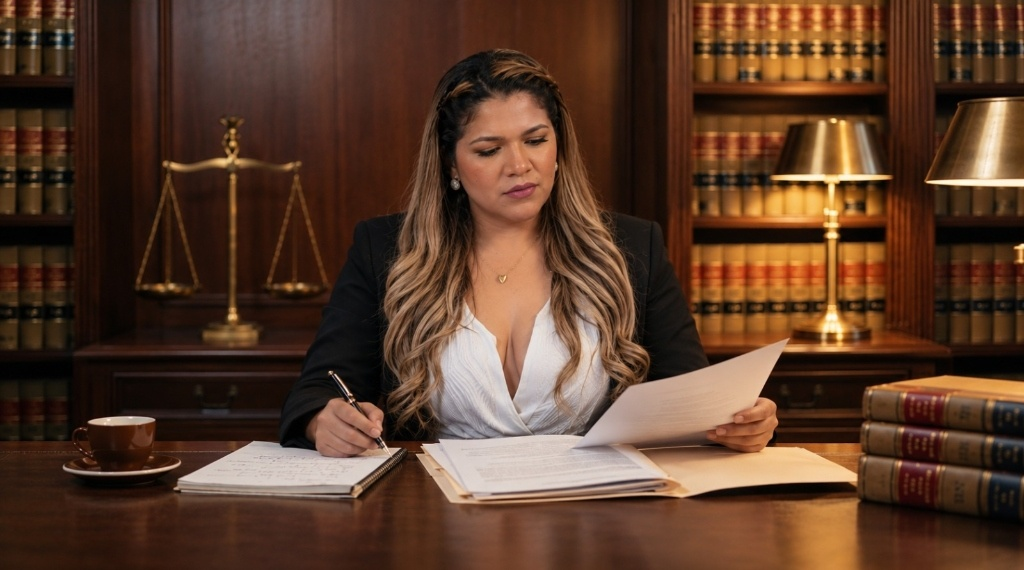
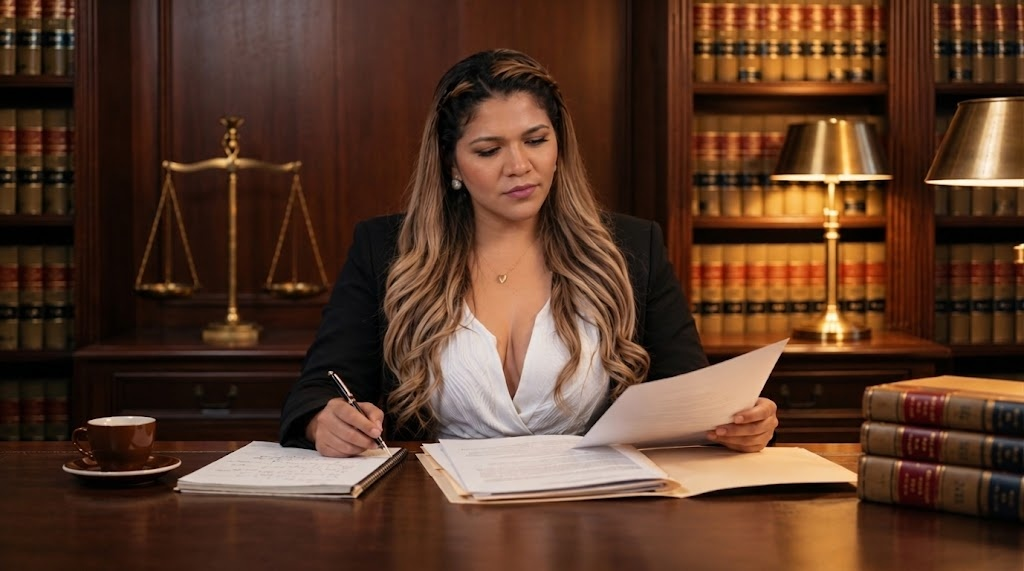
feat: actualizar nuevas fotos de portada, despacho y biblioteca con extension al borde de pantalla

diff --git a/src/pages/HomeTab.tsx b/src/pages/HomeTab.tsx
@@ -444,173 +444,165 @@ export const HomeTab: React.FC<HomeTabProps> = ({ onSelectTab, onOpenEmergencyMo
       </section>
 
       {/* =========================================================================
-          SECCIÓN 3: SOBRE MÍ (2 COLUMNAS: IMAGEN COMPLETA Y TEXTO ESTRUCTURADO)
+          SECCIÓN 3: SOBRE MÍ (2 COLUMNAS: IMAGEN AL BORDE IZQUIERDO Y TEXTO ESTRUCTURADO)
           ========================================================================= */}
-      <section className="w-full bg-[#FAF7F2] py-10 sm:py-14 lg:py-18 overflow-hidden animate-fade-in">
-        <div className="max-w-[1550px] mx-auto px-4 sm:px-8 lg:px-12 xl:px-16">
-          <div className="grid grid-cols-1 lg:grid-cols-2 gap-8 lg:gap-14 items-center">
+      <section className="w-full bg-[#FAF7F2] pt-6 sm:pt-10 lg:pt-12 pb-0 overflow-hidden animate-fade-in">
+        <div className="w-full grid grid-cols-1 lg:grid-cols-2 items-stretch">
+          
+          {/* Columna Izquierda: Imagen a ras del margen izquierdo y a ras del fondo de sección */}
+          <div className="relative w-full h-[300px] sm:h-[400px] lg:h-full min-h-[300px] sm:min-h-[400px] lg:min-h-[480px] overflow-hidden">
+            <img
+              src={sofiaDeskLandscape}
+              alt="Ab. Sofía Segura Santana en su despacho"
+              className="absolute inset-0 w-full h-full object-cover object-top rounded-none shadow-none transform hover:scale-[1.01] transition-transform duration-500"
+            />
+          </div>
+
+          {/* Columna Derecha: Texto estructurado que define la altura vertical exacta */}
+          <div className="w-full px-5 sm:px-10 lg:px-12 xl:px-20 py-8 sm:py-10 lg:py-12 flex flex-col justify-center items-start text-left">
             
-            {/* Columna Izquierda: Fotografía Completa en Despacho (tamaño calibrado sin recortar la frente) */}
-            <div className="w-full flex items-center justify-center">
-              <div className="relative w-full max-w-[560px] rounded-2xl sm:rounded-3xl overflow-hidden shadow-2xl border-2 border-[#c5a059]/40 bg-[#101626] group">
-                <img
-                  src={sofiaDeskLandscape}
-                  alt="Ab. Sofía Segura Santana en su despacho"
-                  className="w-full h-auto block object-cover object-top transform group-hover:scale-[1.01] transition-transform duration-500"
-                />
+            <div className="text-xs font-bold tracking-widest text-[#aa8640] uppercase mb-2">
+              SOBRE MÍ
+            </div>
+            
+            <h2 className="font-['Cinzel',serif] text-2xl sm:text-3xl md:text-4xl lg:text-[40px] font-bold text-[#1c2237] leading-tight mb-3">
+              Ab. Sofía Segura Santana
+            </h2>
+
+            <p className="text-xs sm:text-sm text-slate-600 leading-relaxed mb-5 font-normal max-w-xl">
+              Ejerzo el patrocinio jurídico penal fundamentado en la ética procesal, el rigor dogmático y el respeto irrestricto de las garantías constitucionales. Mi compromiso es brindar una defensa técnica responsable, inmediata y frontal, apegada al Código Orgánico Integral Penal y los tratados de derechos humanos.
+            </p>
+
+            {/* 3 Viñetas con Iconos elegantes */}
+            <div className="space-y-3 mb-6 w-full max-w-xl">
+              <div className="flex items-center gap-3 text-xs sm:text-sm text-slate-700 font-medium">
+                <div className="w-7 h-7 rounded-full bg-[#c5a059]/15 flex items-center justify-center text-[#c5a059] flex-shrink-0">
+                  <Scale className="w-3.5 h-3.5" />
+                </div>
+                <span>Experta en Derecho Penal y Tránsito con más de 5 años de experiencia</span>
+              </div>
+
+              <div className="flex items-center gap-3 text-xs sm:text-sm text-slate-700 font-medium">
+                <div className="w-7 h-7 rounded-full bg-[#c5a059]/15 flex items-center justify-center text-[#c5a059] flex-shrink-0">
+                  <GraduationCap className="w-3.5 h-3.5" />
+                </div>
+                <span>Maestrías en Derecho Procesal Penal & Constitucional (Casa Grande) · Grado en Uniandes</span>
+              </div>
+
+              <div className="flex items-center gap-3 text-xs sm:text-sm text-slate-700 font-medium">
+                <div className="w-7 h-7 rounded-full bg-[#c5a059]/15 flex items-center justify-center text-[#c5a059] flex-shrink-0">
+                  <ShieldCheck className="w-3.5 h-3.5" />
+                </div>
+                <span>Atención en Buena Fe (Los Ríos) y cobertura a nivel nacional</span>
               </div>
             </div>
 
-            {/* Columna Derecha: Texto estructurado que define la altura vertical exacta */}
-            <div className="w-full flex flex-col justify-center items-start text-left">
-              
-              <div className="text-xs font-bold tracking-widest text-[#aa8640] uppercase mb-2">
-                SOBRE MÍ
-              </div>
-              
-              <h2 className="font-['Cinzel',serif] text-2xl sm:text-3xl md:text-4xl lg:text-[40px] font-bold text-[#1c2237] leading-tight mb-3">
-                Ab. Sofía Segura Santana
-              </h2>
-
-              <p className="text-xs sm:text-sm text-slate-600 leading-relaxed mb-5 font-normal max-w-xl">
-                Ejerzo el patrocinio jurídico penal fundamentado en la ética procesal, el rigor dogmático y el respeto irrestricto de las garantías constitucionales. Mi compromiso es brindar una defensa técnica responsable, inmediata y frontal, apegada al Código Orgánico Integral Penal y los tratados de derechos humanos.
-              </p>
-
-              {/* 3 Viñetas con Iconos elegantes */}
-              <div className="space-y-3 mb-6 w-full max-w-xl">
-                <div className="flex items-center gap-3 text-xs sm:text-sm text-slate-700 font-medium">
-                  <div className="w-7 h-7 rounded-full bg-[#c5a059]/15 flex items-center justify-center text-[#c5a059] flex-shrink-0">
-                    <Scale className="w-3.5 h-3.5" />
-                  </div>
-                  <span>Experta en Derecho Penal y Tránsito con más de 5 años de experiencia</span>
-                </div>
-
-                <div className="flex items-center gap-3 text-xs sm:text-sm text-slate-700 font-medium">
-                  <div className="w-7 h-7 rounded-full bg-[#c5a059]/15 flex items-center justify-center text-[#c5a059] flex-shrink-0">
-                    <GraduationCap className="w-3.5 h-3.5" />
-                  </div>
-                  <span>Maestrías en Derecho Procesal Penal & Constitucional (Casa Grande) · Grado en Uniandes</span>
-                </div>
-
-                <div className="flex items-center gap-3 text-xs sm:text-sm text-slate-700 font-medium">
-                  <div className="w-7 h-7 rounded-full bg-[#c5a059]/15 flex items-center justify-center text-[#c5a059] flex-shrink-0">
-                    <ShieldCheck className="w-3.5 h-3.5" />
-                  </div>
-                  <span>Atención en Buena Fe (Los Ríos) y cobertura a nivel nacional</span>
-                </div>
-              </div>
-
-              {/* Botón Píldora: Conocer Más */}
-              <button
-                onClick={() => onSelectTab('perfil')}
-                className="px-6 sm:px-7 py-2.5 sm:py-3 rounded-full bg-[#1c2237] hover:bg-[#c5a059] text-white font-bold text-xs uppercase tracking-wider transition-all shadow-md transform hover:-translate-y-0.5 active:translate-y-0"
-              >
-                Conocer Más Sobre Mí
-              </button>
-
-            </div>
+            {/* Botón Píldora: Conocer Más */}
+            <button
+              onClick={() => onSelectTab('perfil')}
+              className="px-6 sm:px-7 py-2.5 sm:py-3 rounded-full bg-[#1c2237] hover:bg-[#c5a059] text-white font-bold text-xs uppercase tracking-wider transition-all shadow-md transform hover:-translate-y-0.5 active:translate-y-0"
+            >
+              Conocer Más Sobre Mí
+            </button>
 
           </div>
+
         </div>
       </section>
 
       {/* =========================================================================
-          SECCIÓN 4: METODOLOGÍA PROCESAL (2 COLUMNAS: TEXTO E IMAGEN COMPLETA)
+          SECCIÓN 4: METODOLOGÍA PROCESAL (2 COLUMNAS: TEXTO E IMAGEN AL BORDE DERECHO)
           ========================================================================= */}
-      <section className="w-full bg-white py-10 sm:py-14 lg:py-18 overflow-hidden animate-fade-in">
-        <div className="max-w-[1550px] mx-auto px-4 sm:px-8 lg:px-12 xl:px-16">
-          <div className="grid grid-cols-1 lg:grid-cols-2 gap-8 lg:gap-14 items-center">
+      <section className="w-full bg-white pt-0 pb-8 sm:pb-10 lg:pb-12 overflow-hidden animate-fade-in">
+        <div className="w-full grid grid-cols-1 lg:grid-cols-2 items-stretch">
+          
+          {/* Columna Izquierda: Metodología con línea de tiempo y texto que define la altura vertical exacta */}
+          <div className="w-full px-5 sm:px-10 lg:px-12 xl:px-20 py-8 sm:py-10 lg:py-12 flex flex-col justify-center items-start text-left order-2 lg:order-1">
             
-            {/* Columna Izquierda: Metodología con línea de tiempo y texto */}
-            <div className="w-full flex flex-col justify-center items-start text-left order-2 lg:order-1">
-              
-              <div className="text-xs font-bold tracking-widest text-[#aa8640] uppercase mb-2">
-                METODOLOGÍA DE DEFENSA PENAL
-              </div>
-              
-              <h2 className="font-['Cinzel',serif] text-2xl sm:text-3xl md:text-4xl lg:text-[40px] font-bold text-[#1c2237] leading-tight mb-6">
-                Un Proceso Estratégico, Paso a Paso
-              </h2>
-
-              {/* Pasos ordenados con iconos temáticos al lado izquierdo de cada párrafo */}
-              <div className="grid grid-cols-1 sm:grid-cols-2 gap-4 sm:gap-6 w-full max-w-xl">
-                
-                {/* Paso 1: Evaluación Inicial */}
-                <div className="flex flex-col items-start text-left">
-                  <h3 className="font-bold text-xs sm:text-sm text-[#1c2237] mb-1.5 sm:mb-2 font-['Cinzel',serif]">
-                    Evaluación Inicial
-                  </h3>
-                  <div className="flex items-center gap-3 w-full">
-                    <div className="w-11 h-11 sm:w-[52px] sm:h-[52px] rounded-xl bg-[#c5a059]/15 border border-[#c5a059]/25 flex items-center justify-center text-[#c5a059] flex-shrink-0 shadow-sm">
-                      <FileSearch className="w-5 h-5 sm:w-6 sm:h-6 stroke-[1.8]" />
-                    </div>
-                    <p className="text-[11px] sm:text-xs text-slate-500 leading-relaxed font-normal flex-1">
-                      Revisión preliminar de los hechos, estado procesal y medidas cautelares urgentes.
-                    </p>
-                  </div>
-                </div>
-
-                {/* Paso 2: Teoría del Caso */}
-                <div className="flex flex-col items-start text-left">
-                  <h3 className="font-bold text-xs sm:text-sm text-[#1c2237] mb-1.5 sm:mb-2 font-['Cinzel',serif]">
-                    Teoría del Caso
-                  </h3>
-                  <div className="flex items-center gap-3 w-full">
-                    <div className="w-11 h-11 sm:w-[52px] sm:h-[52px] rounded-xl bg-[#c5a059]/15 border border-[#c5a059]/25 flex items-center justify-center text-[#c5a059] flex-shrink-0 shadow-sm">
-                      <Compass className="w-5 h-5 sm:w-6 sm:h-6 stroke-[1.8]" />
-                    </div>
-                    <p className="text-[11px] sm:text-xs text-slate-500 leading-relaxed font-normal flex-1">
-                      Auditoría fiscal rigurosa, acopio de pruebas de descargo y peritajes independientes.
-                    </p>
-                  </div>
-                </div>
-
-                {/* Paso 3: Litigio Oral */}
-                <div className="flex flex-col items-start text-left">
-                  <h3 className="font-bold text-xs sm:text-sm text-[#1c2237] mb-1.5 sm:mb-2 font-['Cinzel',serif]">
-                    Litigio Oral
-                  </h3>
-                  <div className="flex items-center gap-3 w-full">
-                    <div className="w-11 h-11 sm:w-[52px] sm:h-[52px] rounded-xl bg-[#c5a059]/15 border border-[#c5a059]/25 flex items-center justify-center text-[#c5a059] flex-shrink-0 shadow-sm">
-                      <Gavel className="w-5 h-5 sm:w-6 sm:h-6 stroke-[1.8]" />
-                    </div>
-                    <p className="text-[11px] sm:text-xs text-slate-500 leading-relaxed font-normal flex-1">
-                      Defensa contundente en estrados judiciales ante jueces, tribunales y fiscalía.
-                    </p>
-                  </div>
-                </div>
-
-                {/* Paso 4: Recursos y Libertad */}
-                <div className="flex flex-col items-start text-left">
-                  <h3 className="font-bold text-xs sm:text-sm text-[#1c2237] mb-1.5 sm:mb-2 font-['Cinzel',serif]">
-                    Recursos y Libertad
-                  </h3>
-                  <div className="flex items-center gap-3 w-full">
-                    <div className="w-11 h-11 sm:w-[52px] sm:h-[52px] rounded-xl bg-[#c5a059]/15 border border-[#c5a059]/25 flex items-center justify-center text-[#c5a059] flex-shrink-0 shadow-sm">
-                      <Unlock className="w-5 h-5 sm:w-6 sm:h-6 stroke-[1.8]" />
-                    </div>
-                    <p className="text-[11px] sm:text-xs text-slate-500 leading-relaxed font-normal flex-1">
-                      Apelaciones, casación o hábeas corpus para asegurar justicia y libertad plena.
-                    </p>
-                  </div>
-                </div>
-
-              </div>
-
+            <div className="text-xs font-bold tracking-widest text-[#aa8640] uppercase mb-2">
+              METODOLOGÍA DE DEFENSA PENAL
             </div>
+            
+            <h2 className="font-['Cinzel',serif] text-2xl sm:text-3xl md:text-4xl lg:text-[40px] font-bold text-[#1c2237] leading-tight mb-6">
+              Un Proceso Estratégico, Paso a Paso
+            </h2>
 
-            {/* Columna Derecha: Fotografía Completa analizando expediente en biblioteca (sin recortar la frente) */}
-            <div className="w-full flex items-center justify-center order-1 lg:order-2">
-              <div className="relative w-full max-w-[560px] rounded-2xl sm:rounded-3xl overflow-hidden shadow-2xl border-2 border-[#c5a059]/40 bg-[#101626] group">
-                <img
-                  src={sofiaWorkingLandscape}
-                  alt="Ab. Sofía Segura Santana analizando expediente"
-                  className="w-full h-auto block object-cover object-top transform group-hover:scale-[1.01] transition-transform duration-500"
-                />
+            {/* Pasos ordenados con iconos temáticos al lado izquierdo de cada párrafo */}
+            <div className="grid grid-cols-1 sm:grid-cols-2 gap-4 sm:gap-6 w-full max-w-xl">
+              
+              {/* Paso 1: Evaluación Inicial */}
+              <div className="flex flex-col items-start text-left">
+                <h3 className="font-bold text-xs sm:text-sm text-[#1c2237] mb-1.5 sm:mb-2 font-['Cinzel',serif]">
+                  Evaluación Inicial
+                </h3>
+                <div className="flex items-center gap-3 w-full">
+                  <div className="w-11 h-11 sm:w-[52px] sm:h-[52px] rounded-xl bg-[#c5a059]/15 border border-[#c5a059]/25 flex items-center justify-center text-[#c5a059] flex-shrink-0 shadow-sm">
+                    <FileSearch className="w-5 h-5 sm:w-6 sm:h-6 stroke-[1.8]" />
+                  </div>
+                  <p className="text-[11px] sm:text-xs text-slate-500 leading-relaxed font-normal flex-1">
+                    Revisión preliminar de los hechos, estado procesal y medidas cautelares urgentes.
+                  </p>
+                </div>
               </div>
+
+              {/* Paso 2: Teoría del Caso */}
+              <div className="flex flex-col items-start text-left">
+                <h3 className="font-bold text-xs sm:text-sm text-[#1c2237] mb-1.5 sm:mb-2 font-['Cinzel',serif]">
+                  Teoría del Caso
+                </h3>
+                <div className="flex items-center gap-3 w-full">
+                  <div className="w-11 h-11 sm:w-[52px] sm:h-[52px] rounded-xl bg-[#c5a059]/15 border border-[#c5a059]/25 flex items-center justify-center text-[#c5a059] flex-shrink-0 shadow-sm">
+                    <Compass className="w-5 h-5 sm:w-6 sm:h-6 stroke-[1.8]" />
+                  </div>
+                  <p className="text-[11px] sm:text-xs text-slate-500 leading-relaxed font-normal flex-1">
+                    Auditoría fiscal rigurosa, acopio de pruebas de descargo y peritajes independientes.
+                  </p>
+                </div>
+              </div>
+
+              {/* Paso 3: Litigio Oral */}
+              <div className="flex flex-col items-start text-left">
+                <h3 className="font-bold text-xs sm:text-sm text-[#1c2237] mb-1.5 sm:mb-2 font-['Cinzel',serif]">
+                  Litigio Oral
+                </h3>
+                <div className="flex items-center gap-3 w-full">
+                  <div className="w-11 h-11 sm:w-[52px] sm:h-[52px] rounded-xl bg-[#c5a059]/15 border border-[#c5a059]/25 flex items-center justify-center text-[#c5a059] flex-shrink-0 shadow-sm">
+                    <Gavel className="w-5 h-5 sm:w-6 sm:h-6 stroke-[1.8]" />
+                  </div>
+                  <p className="text-[11px] sm:text-xs text-slate-500 leading-relaxed font-normal flex-1">
+                    Defensa contundente en estrados judiciales ante jueces, tribunales y fiscalía.
+                  </p>
+                </div>
+              </div>
+
+              {/* Paso 4: Recursos y Libertad */}
+              <div className="flex flex-col items-start text-left">
+                <h3 className="font-bold text-xs sm:text-sm text-[#1c2237] mb-1.5 sm:mb-2 font-['Cinzel',serif]">
+                  Recursos y Libertad
+                </h3>
+                <div className="flex items-center gap-3 w-full">
+                  <div className="w-11 h-11 sm:w-[52px] sm:h-[52px] rounded-xl bg-[#c5a059]/15 border border-[#c5a059]/25 flex items-center justify-center text-[#c5a059] flex-shrink-0 shadow-sm">
+                    <Unlock className="w-5 h-5 sm:w-6 sm:h-6 stroke-[1.8]" />
+                  </div>
+                  <p className="text-[11px] sm:text-xs text-slate-500 leading-relaxed font-normal flex-1">
+                    Apelaciones, casación o hábeas corpus para asegurar justicia y libertad plena.
+                  </p>
+                </div>
+              </div>
+
             </div>
 
           </div>
+
+          {/* Columna Derecha: Imagen a ras del margen derecho y a ras del tope superior de sección */}
+          <div className="relative w-full h-[300px] sm:h-[400px] lg:h-full min-h-[300px] sm:min-h-[400px] lg:min-h-[480px] overflow-hidden order-1 lg:order-2">
+            <img
+              src={sofiaWorkingLandscape}
+              alt="Ab. Sofía Segura Santana analizando expediente"
+              className="absolute inset-0 w-full h-full object-cover object-top rounded-none shadow-none transform hover:scale-[1.01] transition-transform duration-500"
+            />
+          </div>
+
         </div>
       </section>
 
